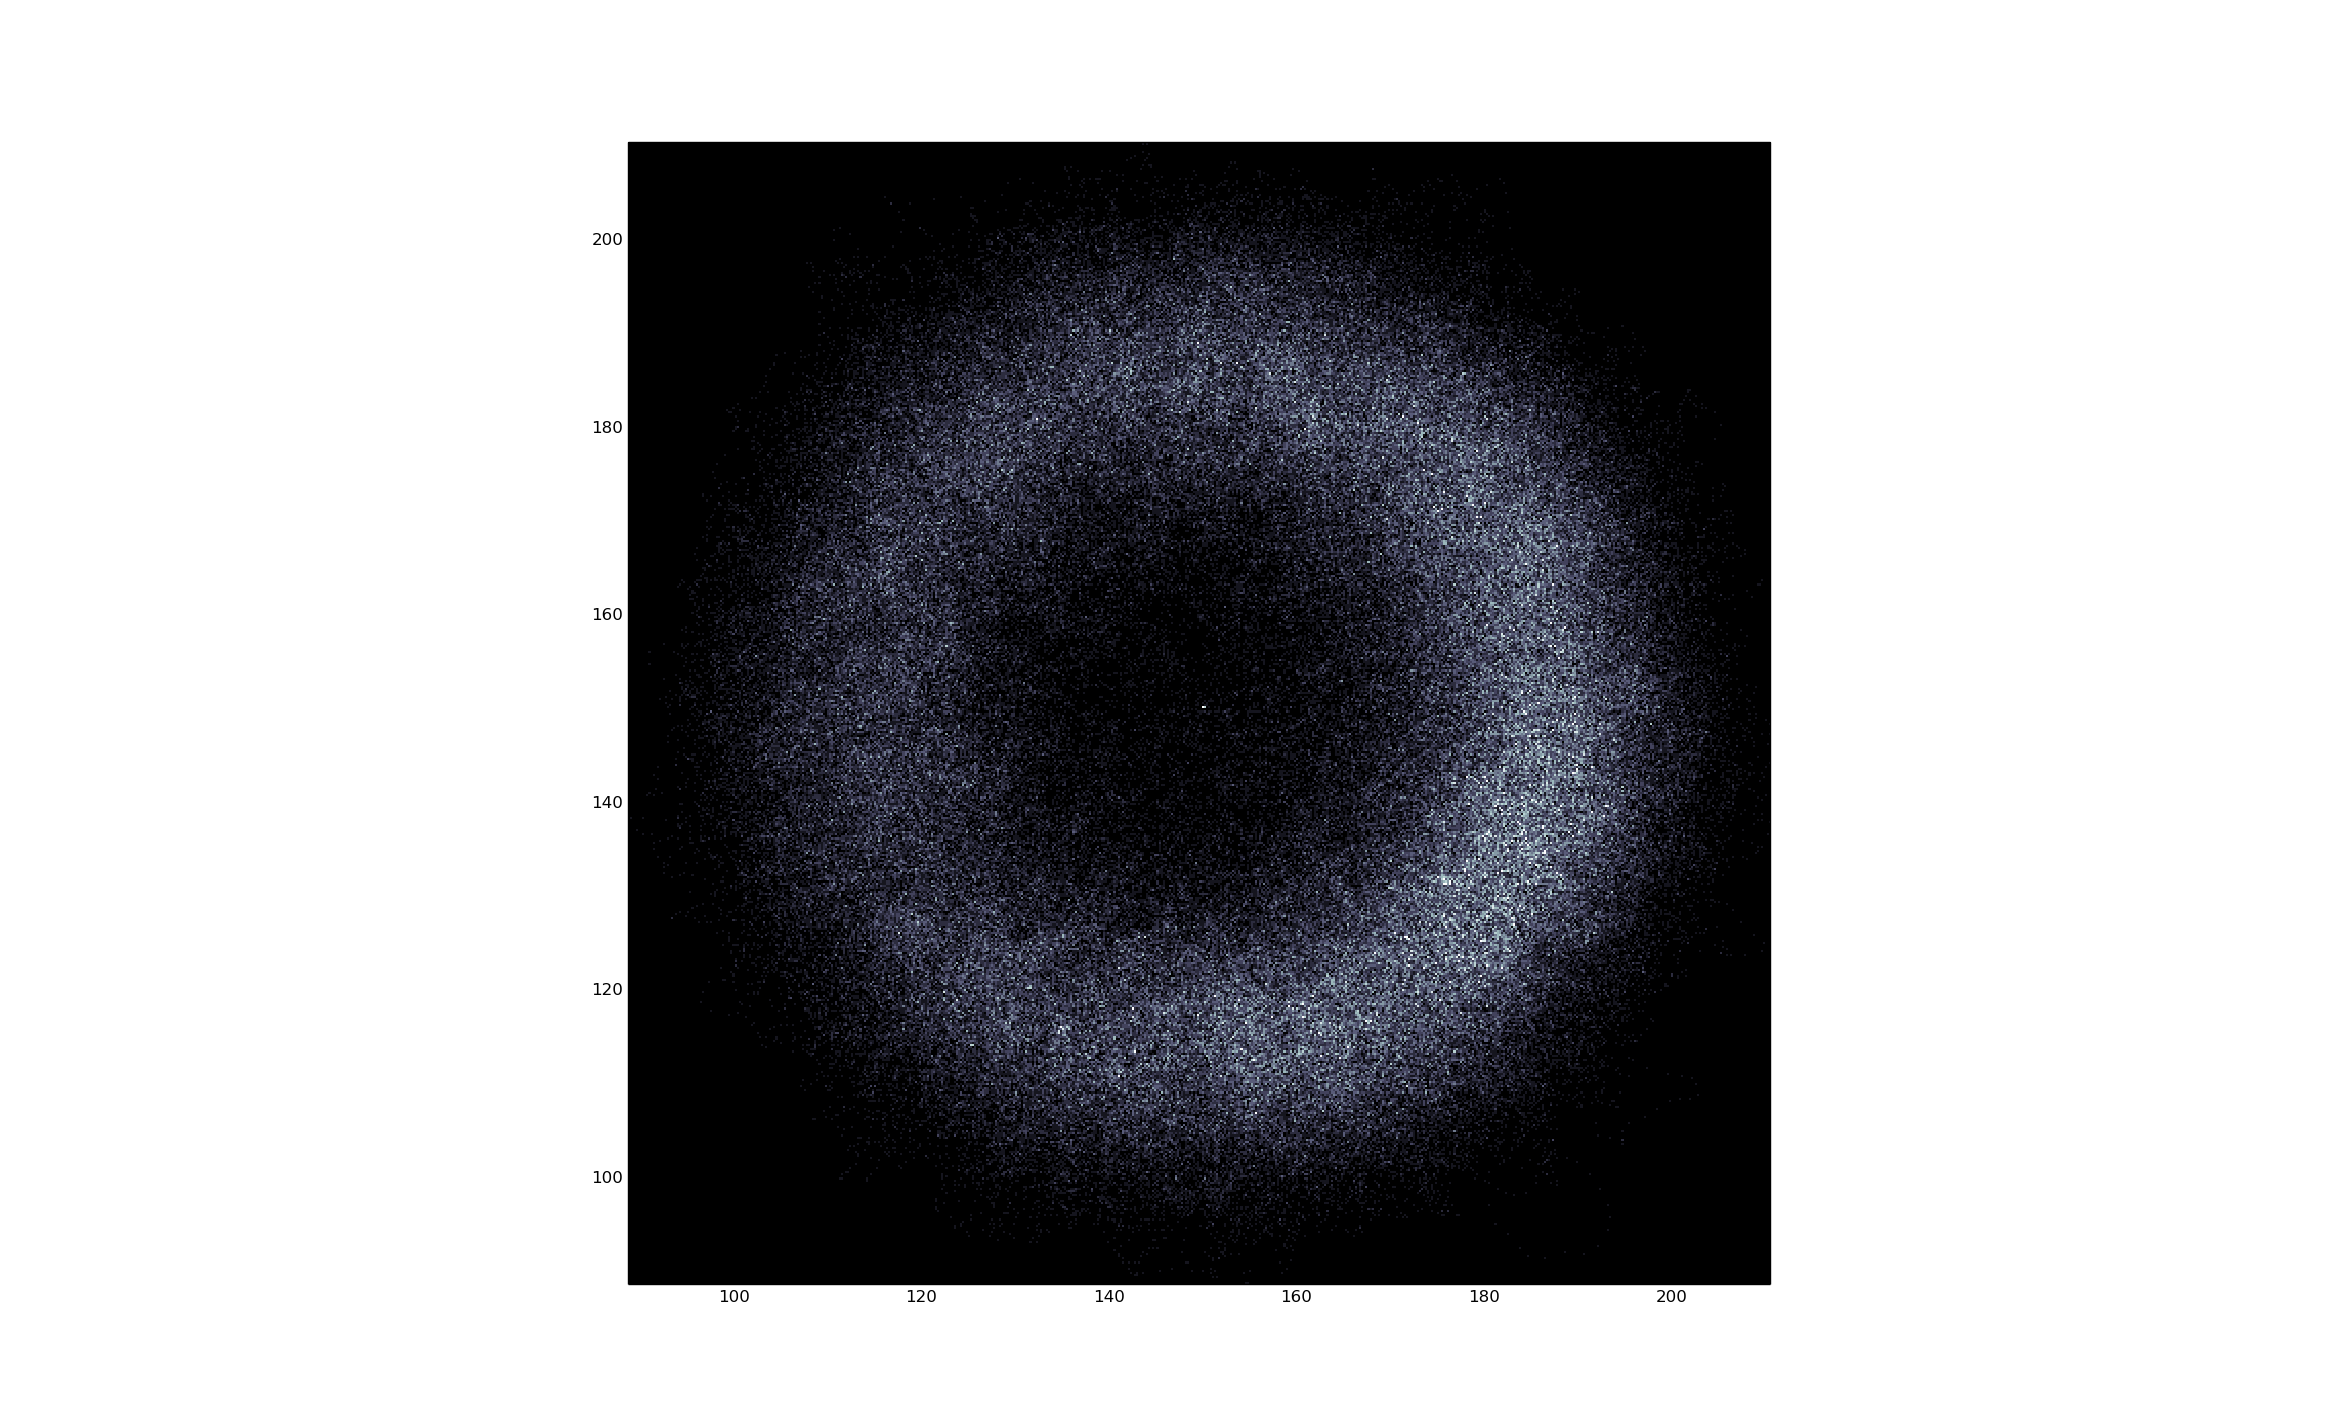
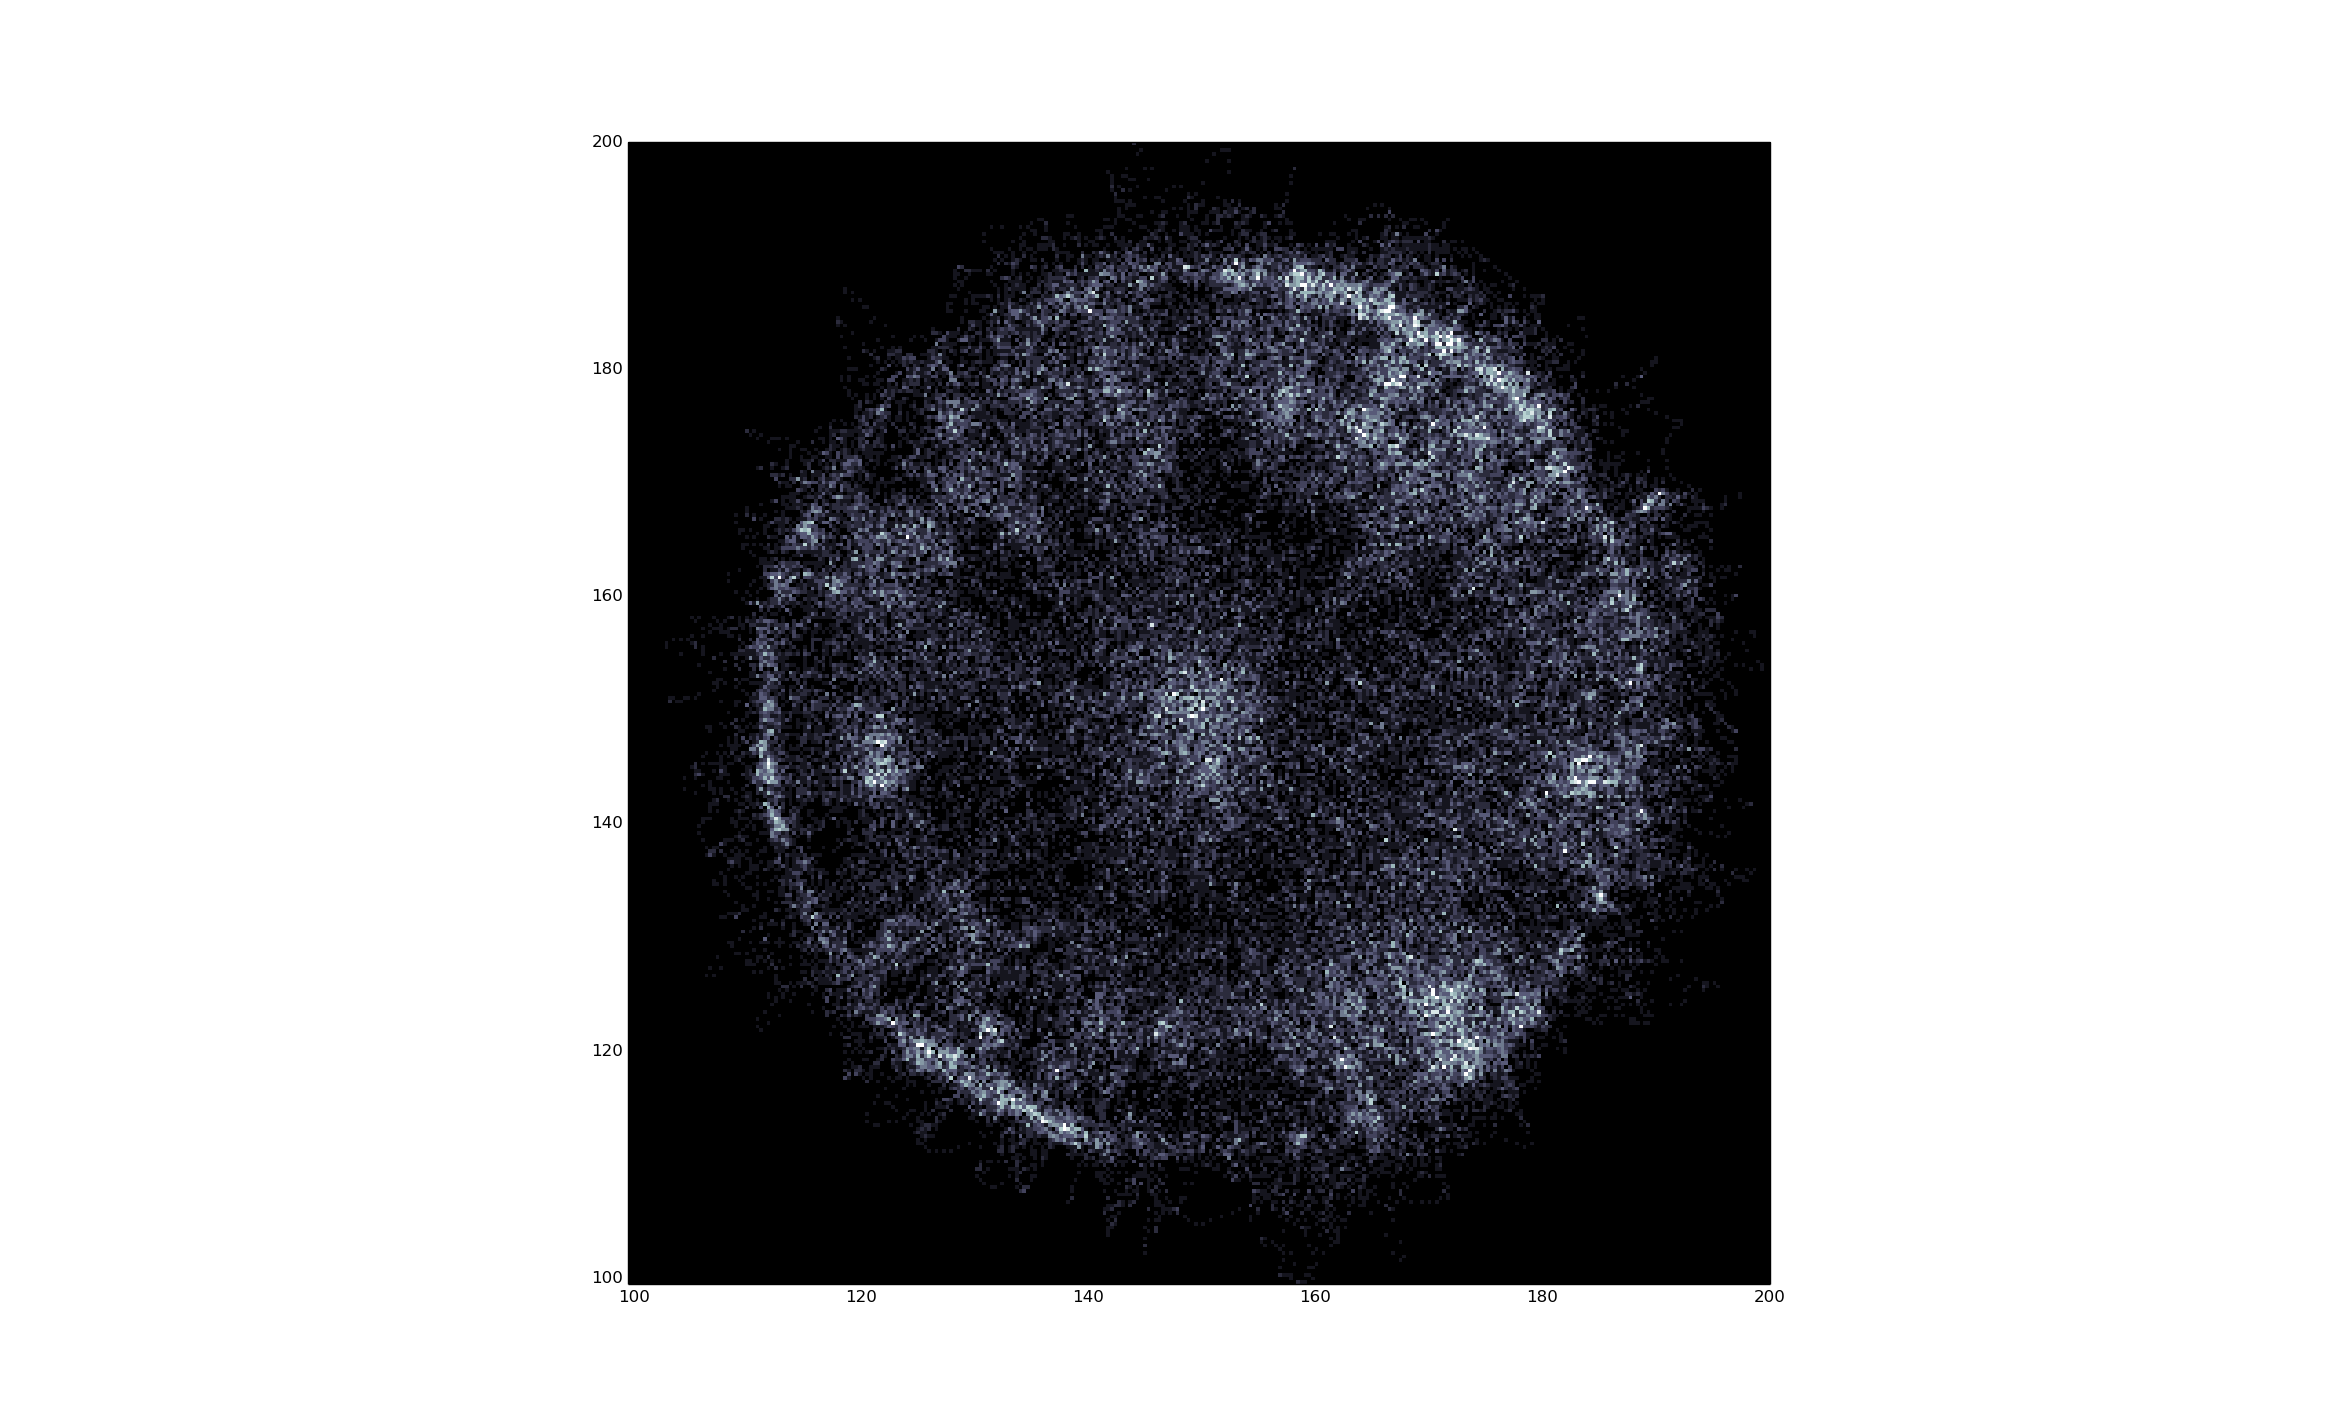
Add histogram
- membrane radius: 100
- number of iterations 1.5e7
- possibly multiple orbits

Changed region(s): [[0.2498, 0.1233, 0.7494, 0.8942]]

diff --git a/main.py b/main.py
@@ -161,7 +161,7 @@ if __name__ == '__main__':
     runner.set_amplitude(amplitudes)
 
     # Membrane size
-    sheet_radius    = 89
+    sheet_radius    = 100
     runner.set_sheet_radius(sheet_radius)
 
     # And x
@@ -229,8 +229,3 @@ if __name__ == '__main__':
             pickle.dump(ball_pos, fout)
         with open('data/memb.pickle', 'wb') as fout:
             pickle.dump(membranes_z, fout)
-
-
-
-    # score_file  = 'data/oscillations.dat'
-    # anal.make_position_histogram(score_file)
